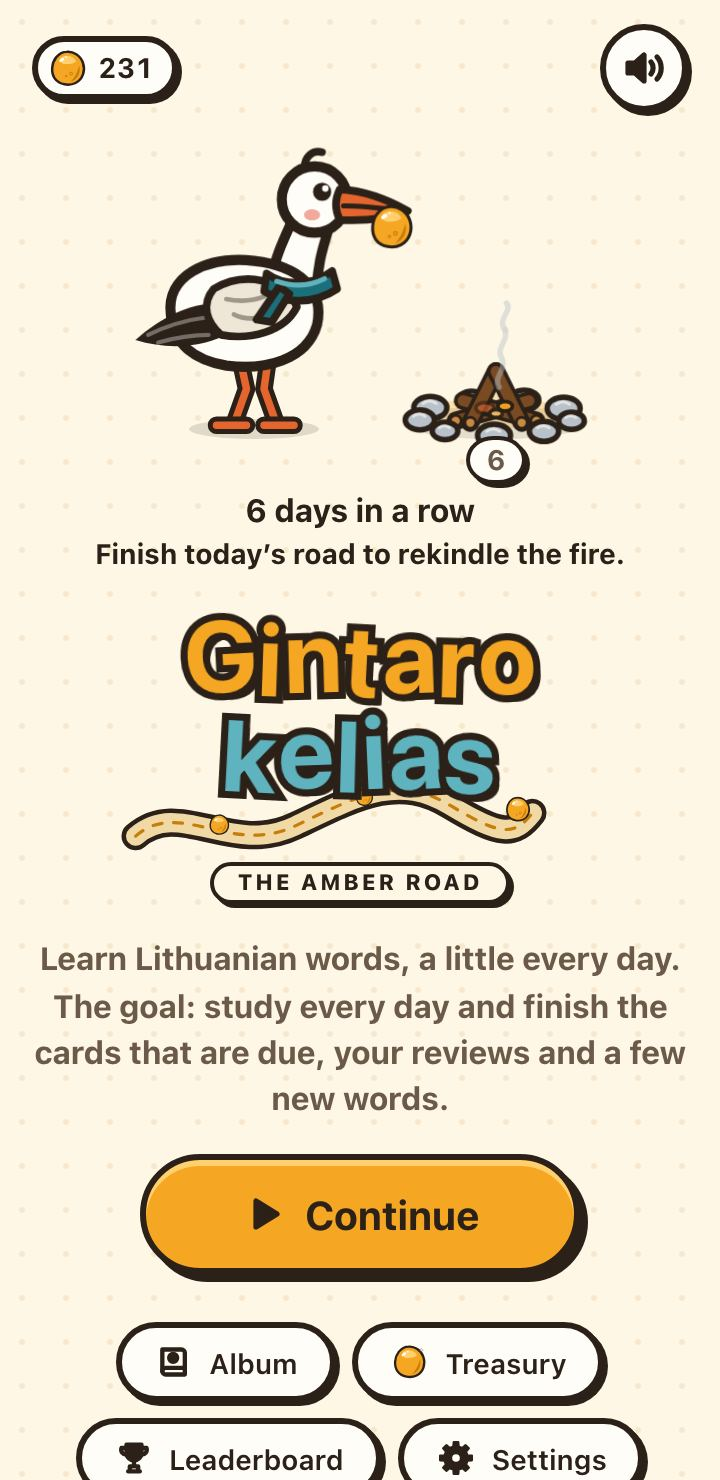
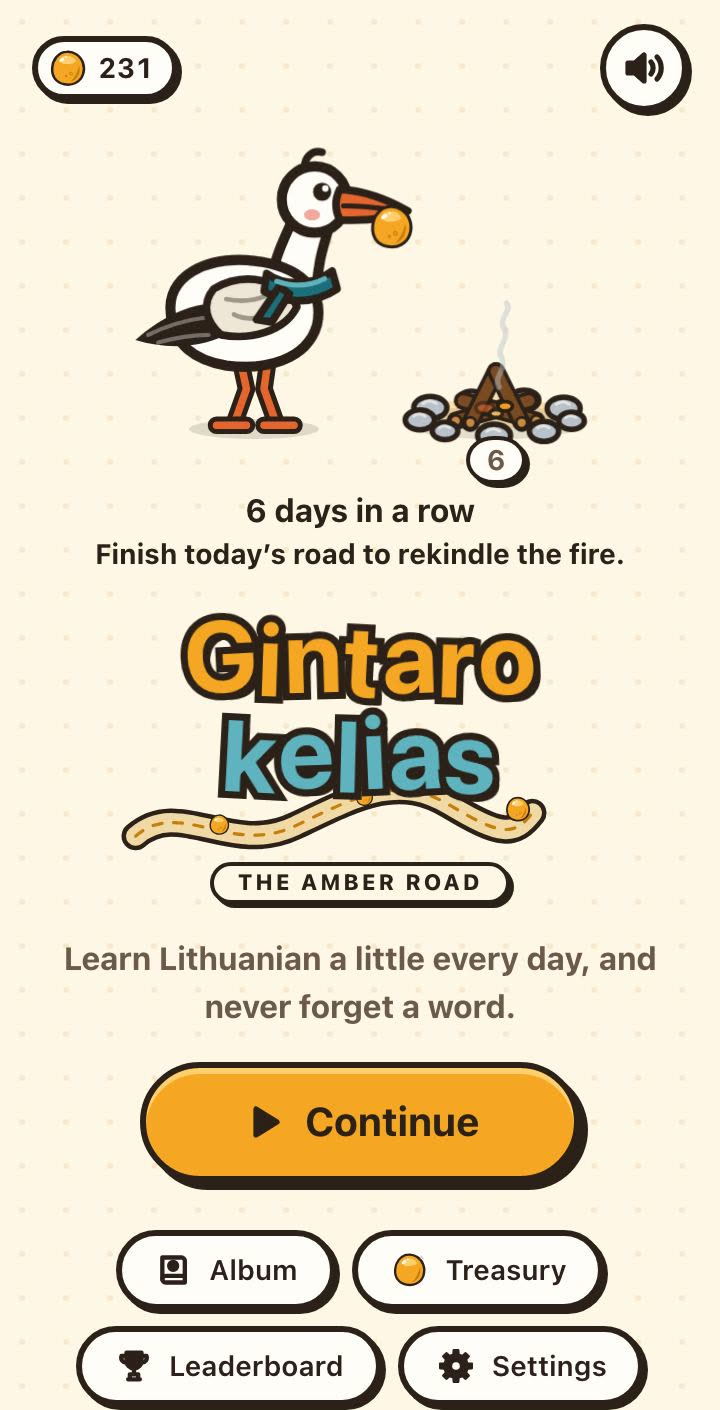
Deck page: the goal is never to forget a word
From e2af3f91 of the source.

Changed region(s): [[0.0611, 0.0936, 0.9472, 1.0], [0.0306, 0.0, 0.2444, 0.0936], [0.825, 0.0, 0.9472, 0.0936]]

diff --git a/docs/index.html b/docs/index.html
@@ -184,10 +184,10 @@ footer{margin-top:56px;padding:26px 0 60px;border-top:1px solid var(--rule);
 </div>
 
 <h2>A game board, not a spreadsheet</h2>
-<p class="section-lead">Gintaro kelias turns the deck into a journey with Gandras the stork: three regions, one for each level, and a stop for every theme. The goal is to study every day and finish the cards that are due: your reviews and a few new words.</p>
+<p class="section-lead">Gintaro kelias turns the deck into a journey with Gandras the stork: three regions, one for each level, and a stop for every theme. The goal: a little every day, and never forget a word.</p>
 <div class="screens">
-  <figure class="phone"><img src="img/app-title.jpg" width="720" height="1480" loading="lazy" alt="The title screen: the stork, a six-day streak by the campfire, the goal of studying every day, and the Continue button.">
-  <figcaption><b>Every day counts.</b> Study daily and finish the cards due; the streak counts the days.</figcaption></figure>
+  <figure class="phone"><img src="img/app-title.jpg" width="720" height="1410" loading="lazy" alt="The title screen: the stork, a six-day streak by the campfire, the goal of never forgetting a word, and the Continue button.">
+  <figcaption><b>Every day counts.</b> A little daily, and no word is forgotten.</figcaption></figure>
   <figure class="phone"><img src="img/app-map.jpg" width="720" height="1480" loading="lazy" alt="The map: the road through the first region, Laukai ir ežerai (A1), with stops for themes and the button for today's road.">
   <figcaption><b>The map.</b> Fields and lakes (A1), forest and river (A2), the seaside (B1), with a stop per theme.</figcaption></figure>
   <figure class="phone"><img src="img/app-study.jpg" width="720" height="1480" loading="lazy" alt="A word card answer: vienas, one, with its forms, definition and example.">
